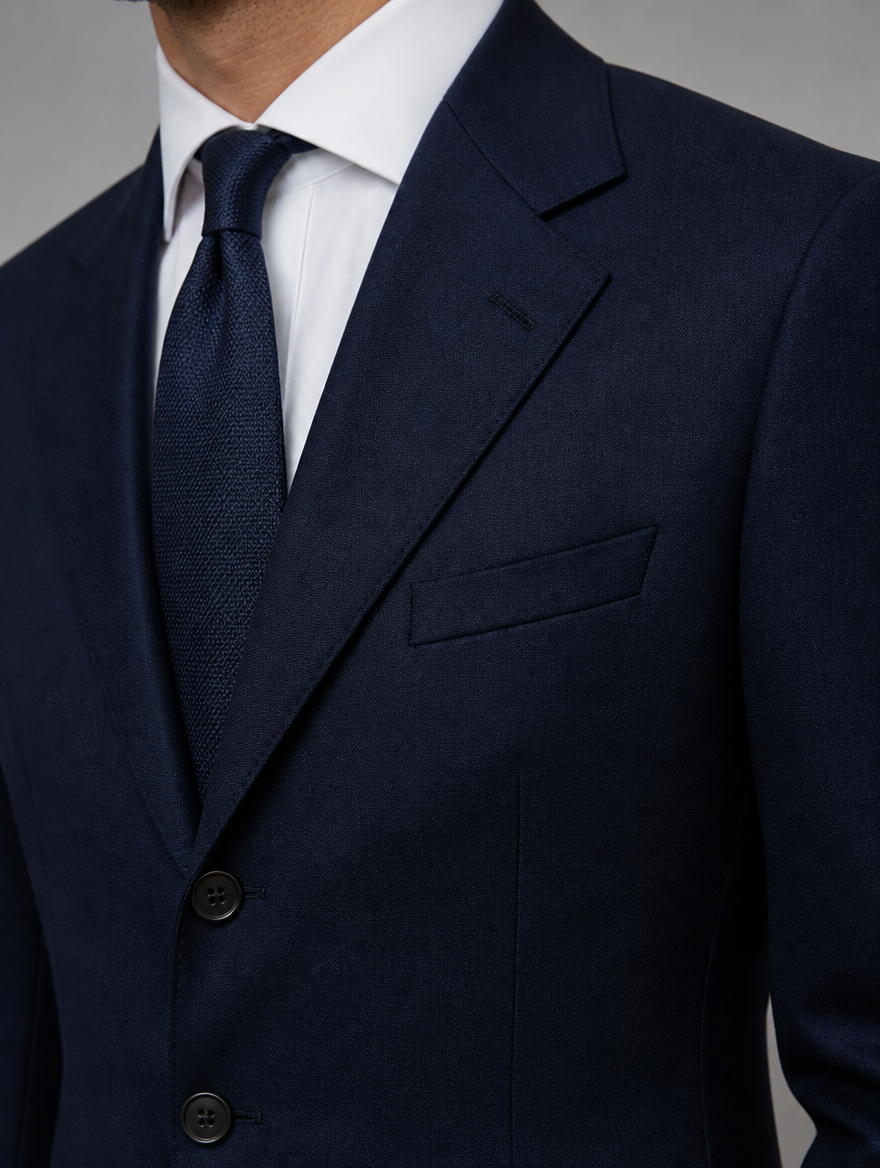
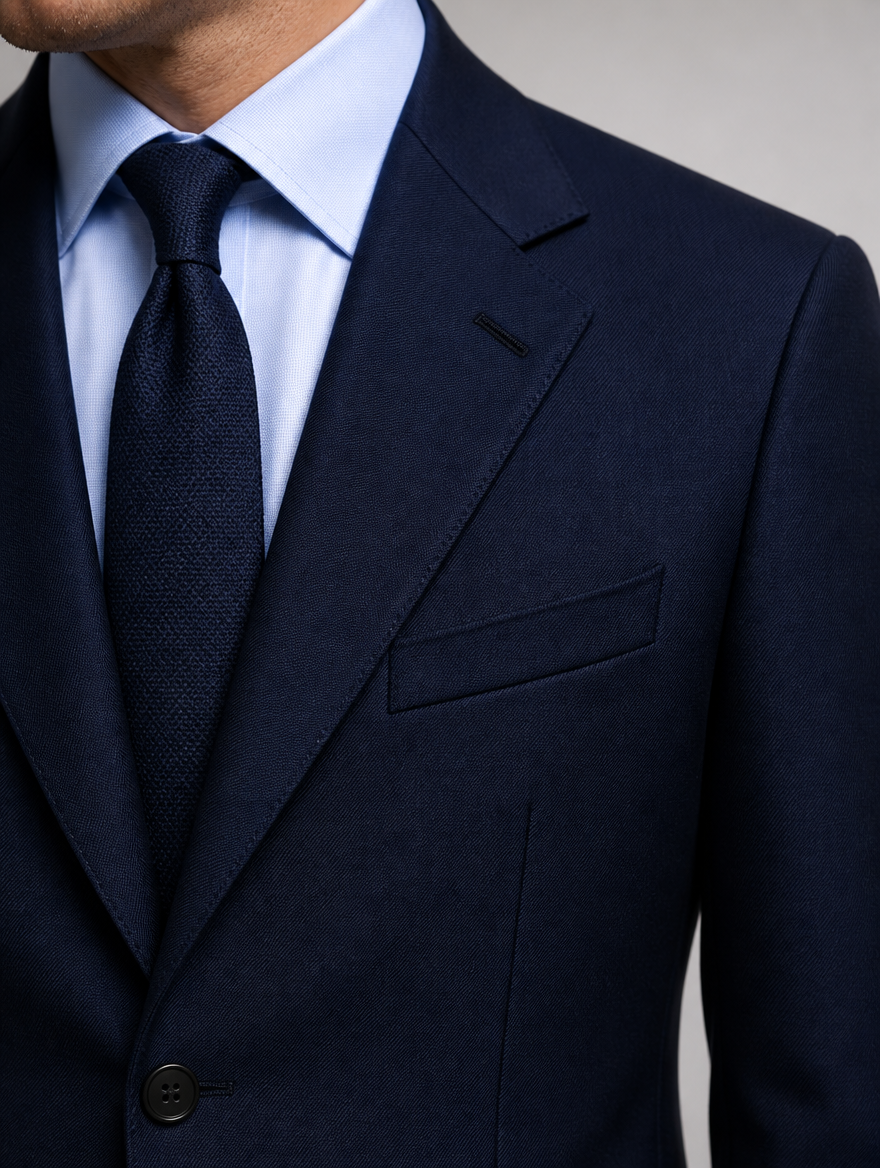
grade(cp-trapezoid): attempt 2 corrects the taper direction
Rewriting the description to name the ENDS OF THE RUN rather than 'top vs bottom'
flipped the taper to the drawn direction. Attempt 1 put the depth at the inboard
end; attempt 2 puts it at the outboard/armhole end, matching the drawing.
Confirmed by tight crop and direct inspection.

Second controlled confirmation of the prose mechanism, and a different failure
mode from the jeans: there the description named the wrong location, here it used
a spatial frame that does not describe a diagonal run at all, so the generator had
to guess which end and guessed wrong. Ambiguity is as damaging as error.

Magnitude deliberately NOT claimed. The local-contrast measurement said 'deeper at
LEFT, taper 2.03' with 290 of 290 columns usable - a suspiciously perfect hit rate,
caused by the lapel edge running diagonally through the measurement box so the
detector paired the lapel edge with the welt edge. Fourth contaminated measurement
on this one option. Direction is reported because it was confirmed by eye; the
ratio is not, because it was not.

TOOLING FLAW: record_generation.mjs silently overwrote candidate-1. It
auto-increments from any prior qc.json, and none had been logged for attempt 1, so
attempt 2 was written as attempt 1 too. Recoverable from git since attempt 1's
generation.json carries its CDN URL, but the provenance chain depends on QC being
logged between generations and that dependency is undocumented and unenforced.
[…]

diff --git a/DEFECT-FAMILIES.md b/DEFECT-FAMILIES.md
@@ -1226,3 +1226,36 @@ shadow crease, the `opt.id` diff that reported 905 phantom changes, and this): *
 evidence once you have checked that it measures the thing you named.* Two measurements disagreeing is
 not a reason to pick one — it is a signal that neither has been validated. And the cheapest validation
 is almost always to crop the region and look at it.
+
+### cp-trapezoid attempt 2 — direction corrected, and a tooling flaw found
+
+Rewriting the description to name the **ends of the run** rather than "top vs bottom" flipped the
+taper to the drawn direction. Attempt 1 put the depth at the inboard/centre-front end; attempt 2 puts
+it at the outboard/armhole end, matching the drawing. Confirmed by tight crop and direct inspection.
+
+**This is the second controlled confirmation of the prose mechanism**, on a different garment part and
+a different kind of error from the jeans. There the description named the wrong *location*; here it
+used a spatial frame ("top vs bottom") that does not describe a diagonal run at all, so the generator
+had to guess which end — and guessed wrong. **Ambiguity in the prose is as damaging as error in it.**
+
+Magnitude is NOT claimed. The local-contrast measurement returned "deeper at LEFT, taper 2.03" with
+290 of 290 columns usable — a suspiciously perfect hit rate, and the cause is that the lapel edge runs
+diagonally through the left of the measurement box, so the detector paired the lapel edge with the
+welt edge. Fourth contaminated measurement on this one option. Direction is reported because it was
+confirmed by eye; the ratio is not, because it was not.
+
+**Tooling flaw: `record_generation.mjs` silently overwrote candidate-1.** It auto-increments the
+attempt number from any prior `qc.json`, and no qc.json had been logged for attempt 1, so attempt 2
+was also written as attempt 1 and replaced the file. Nothing was permanently lost — attempt 1's
+`generation.json` was committed and carries its CDN result URL, so it is recoverable from git — but
+the provenance chain (`qc.json(attempt N)` -> `candidate-N.png`) depends on QC being logged between
+generations, and that dependency is undocumented and unenforced. **Log QC before regenerating, or pass
+`--attempt` explicitly.**
+
+### Pipeline ordering rule, learned the same way
+
+A description change does **not** reach the prompt on its own. `spec.json` caches the description, so
+`build_prompt` alone rebuilds from the stale copy — the rebuilt prompt came back byte-identical at
+5007 chars and still contained the sentence I had just deleted. The order is
+**`set_description` -> `extract_spec --write` -> `build_prompt --write`**. Skipping the middle step
+produces a prompt that silently disagrees with the catalog.
